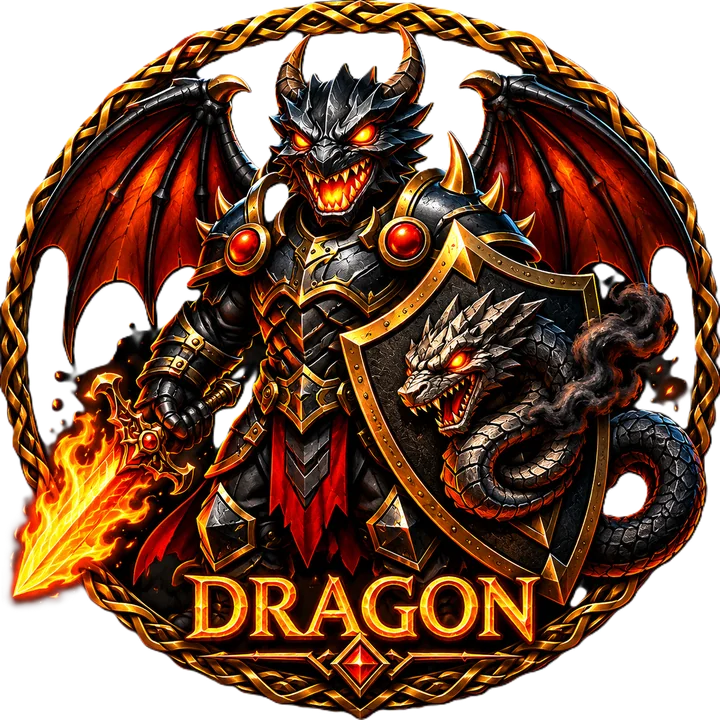
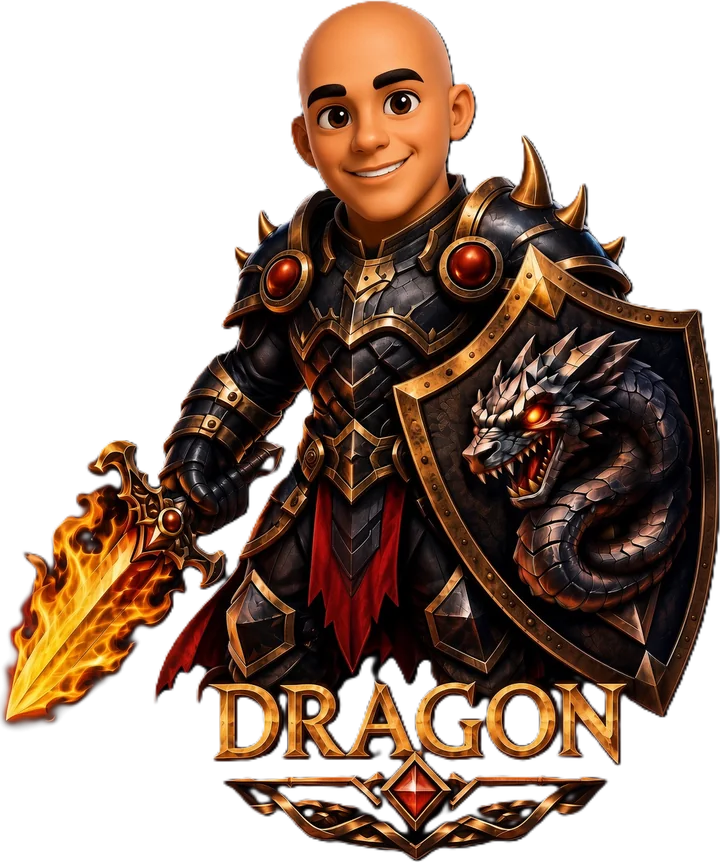
Marca nova: o cavaleiro entra, e o ícone do iOS deixa de ter quinas brancas
Três arquivos, três tamanhos, três contratos diferentes — e o erro anterior era
tratar os três como se fossem o mesmo desenho.

O HERÓI (dragon.webp, 720x862) é a figura inteira, com alfa. Isso importa por
causa de uma linha de CSS: .emblem tem filter: drop-shadow(). Drop-shadow segue
o canal alfa, então sobre uma placa opaca o brilho laranja sairia como o
contorno de um retângulo. Com recorte, ele acompanha a silhueta.

A MARCA (dragon-mark.webp, 192x192) NÃO é a figura inteira, é o busto. O
cabeçalho a desenha a 44 px e o favicon a 16. Medi a distribuição de tinta da
arte: a cabeça leva 5% dela e a palavra DRAGON outros 5%, com o peso todo entre
40% e 80% da altura. Reduzida a 44 px, a figura inteira vira mancha e o rosto
fica com uns 8 px. O busto é o único corte que ainda se lê nesse tamanho.

O ÍCONE (dragon-icon-180.png) é PNG opaco, sangrado até a borda, sem canal alfa
nenhum — conferido pixel a pixel: 0 com alfa abaixo de 255, cantos pretos. O
apple-touch-icon apontava para a marca em webp, cujos cantos são transparentes;
o iPhone não corta nem amplia, desenha o quadrado inteiro e preenche de branco
o que estiver vazio. Era daí que vinham as quinas brancas na tela de início.

A arte veio já recortada. A primeira versão tinha fundo preto chapado e tentei
tirar o preto por conectividade: não dá, e o número diz por quê — a armadura
desta arte tem luminância abaixo de 6 e encosta no fundo pelo contorno, então o
[…]

diff --git a/index.html b/index.html
@@ -5,7 +5,14 @@
   <meta name="viewport" content="width=device-width, initial-scale=1" />
   <title>Dragon Games</title>
   <link rel="icon" href="brand/dragon-mark.webp" />
-  <link rel="apple-touch-icon" href="brand/dragon-mark.webp" />
+  <!-- O ícone de tela de início do iOS é PNG OPACO e sangrado até a borda. Aqui
+       apontava para a marca em webp, que tem os cantos transparentes: o iPhone
+       não corta nem amplia — desenha o quadrado inteiro, arredonda por cima e
+       preenche de BRANCO o que estava vazio. Era isso que punha quinas brancas
+       no ícone. O arquivo abaixo é medido: 180×180 (a tela @3x), zero pixels com
+       alfa, preto até o canto. E não é pré-arredondado de propósito, porque o
+       iOS já aplica a máscara e canto arredondado duas vezes fica torto. -->
+  <link rel="apple-touch-icon" sizes="180x180" href="brand/dragon-icon-180.png" />
   <link rel="preconnect" href="https://fonts.googleapis.com" />
   <link rel="preconnect" href="https://fonts.gstatic.com" crossorigin />
   <link href="https://fonts.googleapis.com/css2?family=Cinzel:wght@500;700;800&family=IBM+Plex+Mono:wght@500;700&family=Inter:wght@400;500;600&display=swap" rel="stylesheet" />
@@ -14,7 +21,7 @@
   </style>
 </head><body>
 <header class="topbar"><nav class="nav shell" aria-label="Principal"><a class="brand" href="#inicio"><img src="brand/dragon-mark.webp" alt="" width="44" height="44"/><span class="brand-copy"><b>DRAGON GAMES</b><span>Jogos na mesa. No celular.</span></span></a><div class="nav-links"><a href="#jogos">Jogos</a><a href="https://github.com/DrMarioNascimento/Dragon" target="_blank" rel="noopener noreferrer">GitHub</a></div></nav></header>
-<section class="hero shell" id="inicio"><div class="hero-copy"><span class="eyebrow">Studio · Florianópolis<span class="ew-rest"> · Santa Catarina · Brazil</span></span><h1>Dragon <span>Games</span></h1><p>A place for fun and ideas! A hub for learning through games, projects, and new concepts. Make yourself at home and enjoy the mystery, the action, and the company. We’re all about peace, learning, and fun. Maybe some PvP down the line (lol). I’m a beginner, so tips and suggestions are welcome!</p></div><img class="emblem" src="brand/dragon.webp" alt="" width="720" height="720"/></section>
+<section class="hero shell" id="inicio"><div class="hero-copy"><span class="eyebrow">Studio · Florianópolis<span class="ew-rest"> · Santa Catarina · Brazil</span></span><h1>Dragon <span>Games</span></h1><p>A place for fun and ideas! A hub for learning through games, projects, and new concepts. Make yourself at home and enjoy the mystery, the action, and the company. We’re all about peace, learning, and fun. Maybe some PvP down the line (lol). I’m a beginner, so tips and suggestions are welcome!</p></div><img class="emblem" src="brand/dragon.webp" alt="" width="720" height="862"/></section>
 <section class="games shell" id="jogos"><div class="games-head"><span class="eyebrow">Catálogo</span><h2>Jogos</h2><p>Dois casos. Em cada um, três portas: a mesa, a noite e o modo solo.</p></div>
 <article class="game"><span class="game-number">01</span><span class="eyebrow">Dedução · festa</span><h3>MOSAICO <span class="case">- A Casa da Costa</span></h3><p>A verdade é um fragmento. Cada um no próprio celular, a casa na mesma sala. Três portas para o mesmo caso: a mesa, a noite e o modo solo.</p><div class="game-strip" aria-hidden="true"><img src="solo/tiles/carta-costa.jpg" alt=""/><img src="solo/tiles/foto-agenda.jpg" alt=""/><img src="solo/tiles/foto-gaveta.jpg" alt=""/><img src="solo/tiles/foto-noite.jpg" alt=""/><img src="solo/tiles/foto-farol.jpg" alt=""/></div><div class="topics"><span class="topic">1 a 12</span><span class="topic">QR</span><span class="topic">Lanternas</span></div><div class="versions"><div class="ver"><b>A mesa</b><span>Telão, QR e as lanternas originais. Quem já jogou, joga igual.</span><a class="btn btn-gold" href="v1/MOSAICO-mesa.html" target="_blank" rel="noopener noreferrer">Abrir a mesa</a></div><div class="ver"><b>A noite</b><span>Curta ou cheia. Foto partida, ficha de três linhas.</span><a class="btn btn-ember" href="v2/" target="_blank" rel="noopener noreferrer">Abrir a noite</a></div><div class="ver"><b>Modo solo</b><span>Laboratório de playtest: escolha A Mesa ou A Noite e complete a lotação com bots.</span><a class="btn btn-ghost" href="solo-lab.html" target="_blank" rel="noopener noreferrer">Ensaiar sozinho</a></div></div></article>
 <article class="game"><span class="game-number">02</span><span class="eyebrow">Dedução · manhã</span><h3>MOSAICO <span class="case">- A manhã do Carro-forte</span></h3><p>O banco abre. O carro-forte chega cedo. O relógio da farmácia não bate com o sino da igreja. Cada um vê um fragmento da mesma manhã.</p><div class="game-strip" aria-hidden="true"><img src="carro-forte/tiles/relogio.jpg" alt=""/><img src="carro-forte/tiles/o-banco.jpg" alt=""/><img src="carro-forte/tiles/o-carro-forte.jpg" alt=""/><img src="carro-forte/tiles/o-malote.jpg" alt=""/><img src="carro-forte/tiles/a-zona-cega.jpg" alt=""/></div><div class="topics"><span class="topic">1 a 12</span><span class="topic">Banco</span><span class="topic">7h42</span></div><div class="versions"><div class="ver"><b>A mesa</b><span>Perspectivas, fragmentos e dedução. A verdade montada sob pressão.</span><a class="btn btn-gold" href="carro-forte/" target="_blank" rel="noopener noreferrer">Jogar</a></div><div class="ver"><b>A noite</b><span>Reunião de fechamento, disputa por evidências e decisão. A manhã produziu os fatos. A noite decide o que eles permitem concluir.</span><a class="btn btn-ember" href="carro-forte-noite/" target="_blank" rel="noopener noreferrer">Abrir a noite</a></div><div class="ver"><b>Modo solo</b><span>Laboratório de playtest com lotação máxima e bots.</span><a class="btn btn-ghost" href="solo-lab.html" target="_blank" rel="noopener noreferrer">Ensaiar sozinho</a></div></div></article>
